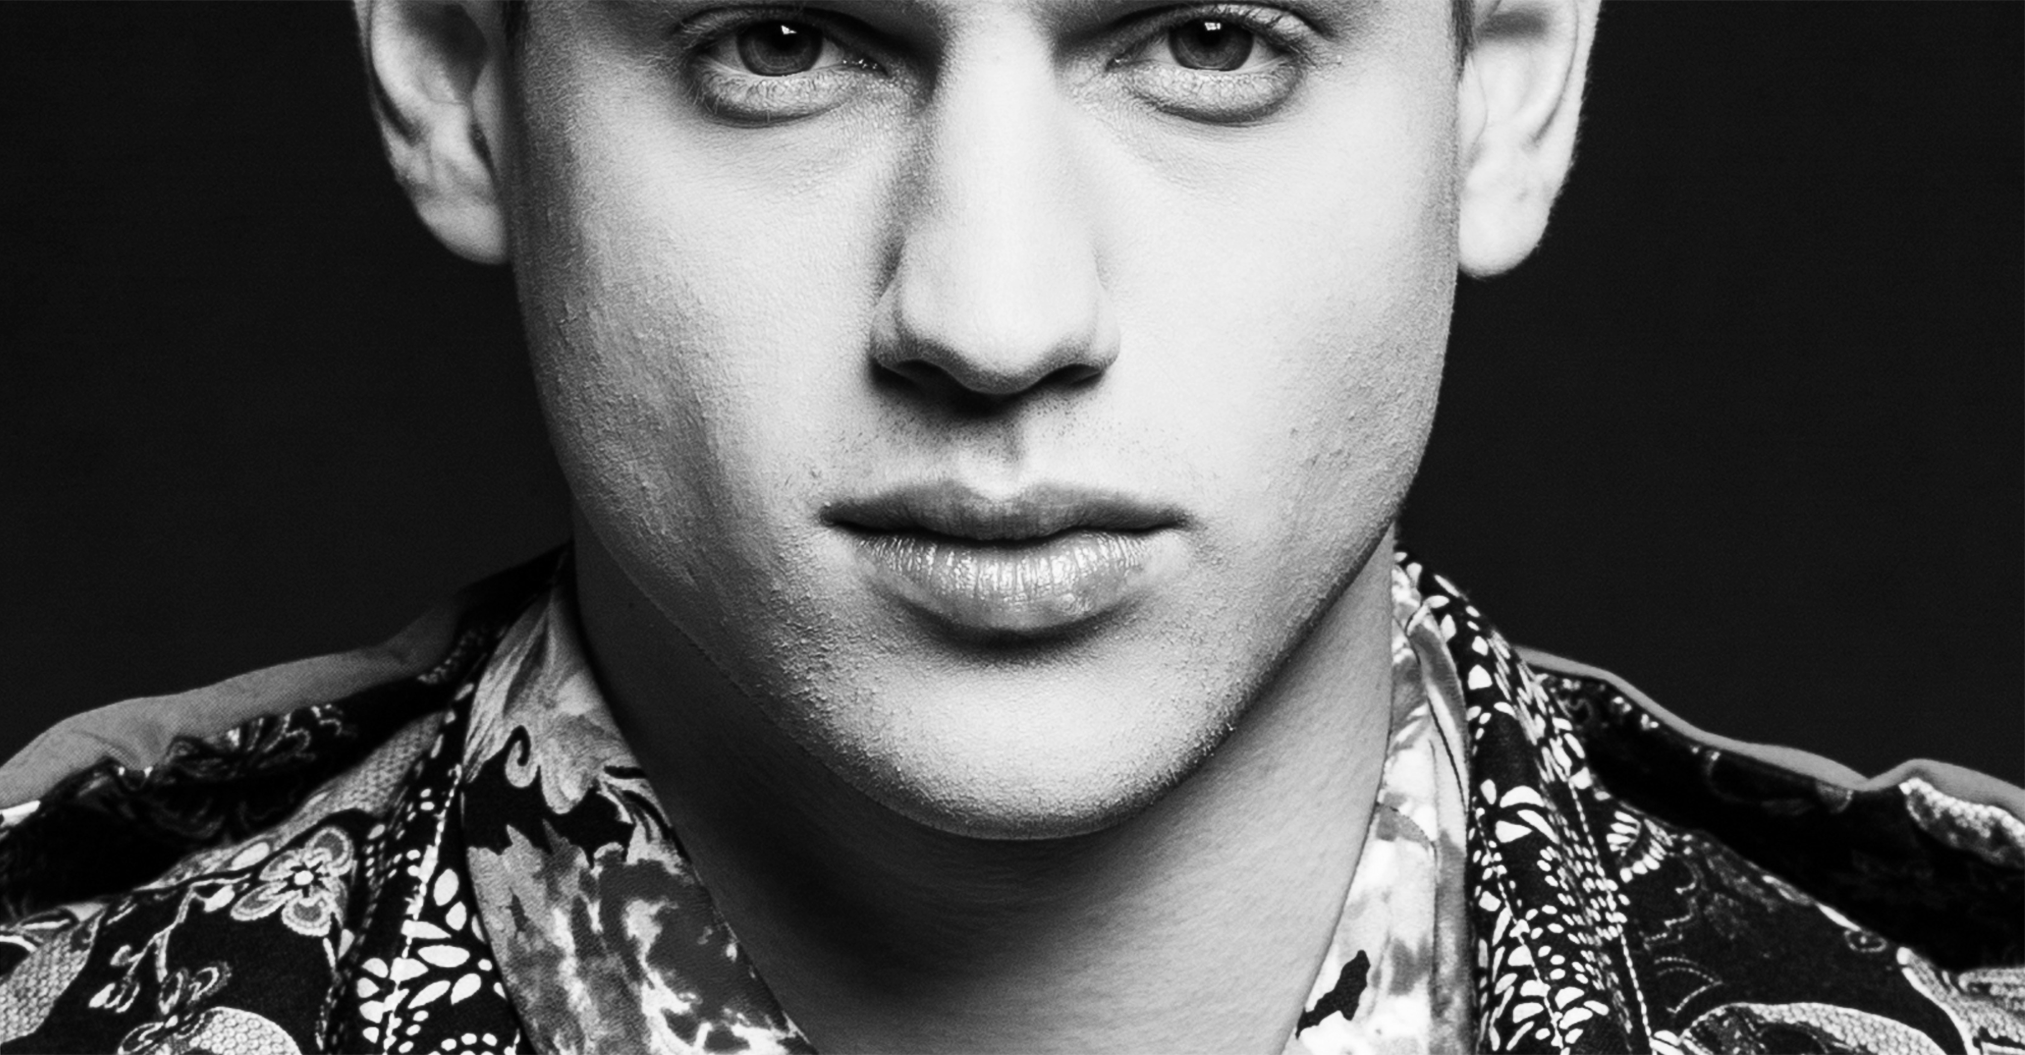
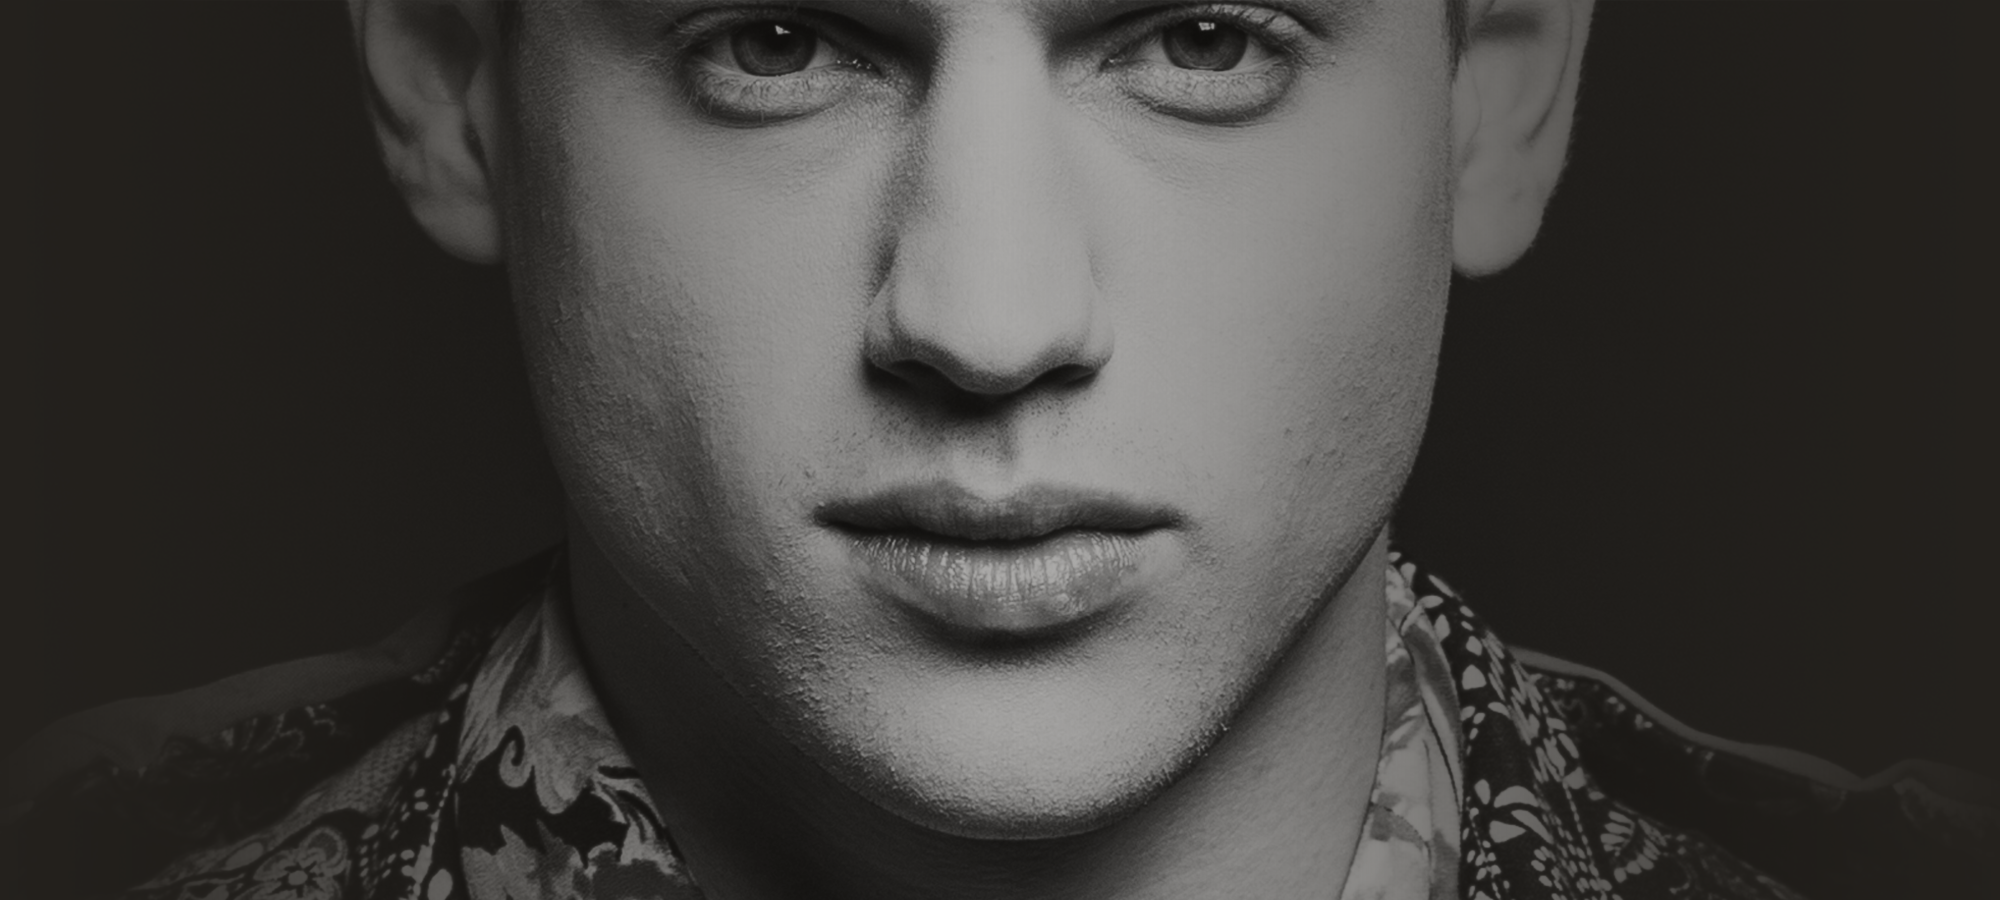
fix bg position and performance

diff --git a/home.html b/home.html
@@ -1,76 +1,76 @@
 <!DOCTYPE html>
 <!--[if lt IE 7]>
 <html class="no-js lt-ie9 lt-ie8 lt-ie7"> <![endif]-->
-  <!--[if IE 7]>
-  <html class="no-js lt-ie9 lt-ie8"> <![endif]-->
-    <!--[if IE 8]>
-    <html class="no-js lt-ie9"> <![endif]-->
-      <!--[if gt IE 8]><!-->
-      <html class="no-js"> <!--<![endif]-->
-        <head>
-          <meta charset="utf-8">
-          <meta http-equiv="X-UA-Compatible" content="IE=edge">
-          <title></title>
-          <meta name="description" content="">
-          <meta name="viewport" content="width=1024px">
+<!--[if IE 7]>
+<html class="no-js lt-ie9 lt-ie8"> <![endif]-->
+<!--[if IE 8]>
+<html class="no-js lt-ie9"> <![endif]-->
+<!--[if gt IE 8]><!-->
+<html class="no-js"> <!--<![endif]-->
+<head>
+  <meta charset="utf-8">
+  <meta http-equiv="X-UA-Compatible" content="IE=edge">
+  <title></title>
+  <meta name="description" content="">
+  <meta name="viewport" content="width=1024px">
 
-          <!-- Place favicon.ico and apple-touch-icon.png in the root directory -->
+  <!-- Place favicon.ico and apple-touch-icon.png in the root directory -->
 
-          <link rel="stylesheet" href="css/normalize.css">
-          <link rel="stylesheet" href="css/main.css">
-          <link rel="stylesheet" href="css/jmenu.css">
-          <link rel="stylesheet" href="css/home.css">
-          <script src="js/vendor/modernizr-2.6.2.min.js"></script>
-        </head>
-        <body>
-          <div class="mask">
+  <link rel="stylesheet" href="css/normalize.css">
+  <link rel="stylesheet" href="css/main.css">
+  <link rel="stylesheet" href="css/jmenu.css">
+  <link rel="stylesheet" href="css/home.css">
+  <script src="js/vendor/modernizr-2.6.2.min.js"></script>
+</head>
+<body>
+<div class="wrapper">
+  <div class="div-bg active" id="bg-1" style="width:100%;height:100%;background:url(img/home-bg.png) no-repeat center top;background-size:cover"></div>
+  <div class="div-bg" id="bg-2" style="width:100%;height:100%;background:url(img/home-bg-2.png) no-repeat center top;background-size:cover"></div>
+  <div class="div-bg" id="bg-3" style="width:100%;height:100%;background:url(img/home-bg-3.png) no-repeat center top;background-size:cover"></div>
+  <div class="home-title">
+    <img src="img/index-guchuang-light.png" alt="">
+  </div>
 
-            <!-- Add your site or application content here -->
-            <div class="home-title">
-              <img src="img/index-guchuang-light.png" alt="">
-            </div>
+  <div class="row nav">
+    <ul class="menu">
+      <li>
+        <a class="link" href="" data-bg="#bg-1">GUCHUANG古创</a>
+        <ul class="menu-content">
+          <li><a href="" data-bg="#bg-2">
+            <div>COMPANY PROFILE</div>
+            <div>公司简介</div>
+          </a></li>
+          <li><a href="" data-bg="#bg-3">
+            <div>COMPANY INFORMATION</div>
+            <div>公司资讯</div>
+          </a></li>
+          <li><a href="" data-bg="#bg-1">
+            <div>CHINA MERCHANTS TO JOIN</div>
+            <div>招商加盟</div>
+          </a></li>
+          <li><a href="" data-bg="#bg-2">
+            <div>RECRUITMENT</div>
+            <div>招聘</div>
+          </a></li>
+          <li><a href="" data-bg="#bg-3">
+            <div>CONTACT US</div>
+            <div>联系我们</div>
+          </a></li>
+        </ul>
+      </li>
+      <li><a class="link" href="">SUNJET新杰良品</a></li>
+      <li><a class="link" href="">X2HOMME</a></li>
+      <li><a class="link" href="">GFI古方印象</a></li>
+      <li><a class="link" href="">X3COMMUNE</a></li>
+    </ul>
+  </div>
+</div>
 
-            <div class="row nav">
-              <ul class="menu">
-                <li>
-                <a class="link" href="">GUCHUANG古创</a>
-                <ul class="menu-content">
-                  <li><a href="">
-                    <div>COMPANY PROFILE</div>
-                    <div>公司简介</div>
-                  </a></li>
-                  <li><a href="">
-                    <div>COMPANY INFORMATION</div>
-                    <div>公司资讯</div>
-                  </a></li>
-                  <li><a href="">
-                    <div>CHINA MERCHANTS TO JOIN</div>
-                    <div>招商加盟</div>
-                  </a></li>
-                  <li><a href="">
-                    <div>RECRUITMENT</div>
-                    <div>招聘</div>
-                  </a></li>
-                  <li><a href="">
-                    <div>CONTACT US</div>
-                    <div>联系我们</div>
-                  </a></li>
-                </ul>
-                </li>
-                <li><a class="link" href="">SUNJET新杰良品</a></li>
-                <li><a class="link" href="">X2HOMME</a></li>
-                <li><a class="link" href="">GFI古方印象</a></li>
-                <li><a class="link" href="">X3COMMUNE</a></li>
-              </ul>
-            </div>
-
-          </div>
-
-          <script src="js/vendor/jquery-1.10.2.min.js"></script>
-          <script src="js/vendor/jquery-ui.js"></script>
-          <script src="js/vendor/jMenu.jquery.js"></script>
-          <script src="js/vendor/TweenMax-1.11.4.min.js"></script>
-          <script src="js/plugins.js"></script>
-          <script src="js/main.js"></script>
-        </body>
-      </html>
+<script src="js/vendor/jquery-1.10.2.min.js"></script>
+<script src="js/vendor/jquery-ui.js"></script>
+<script src="js/vendor/jMenu.jquery.js"></script>
+<script src="js/vendor/TweenMax-1.11.4.min.js"></script>
+<script src="js/plugins.js"></script>
+<script src="js/main.js"></script>
+</body>
+</html>

diff --git a/css/home.css b/css/home.css
@@ -2,22 +2,37 @@ html {
   height: 100%; }
   html body {
     height: 100%;
-    background: url(../img/home-bg-min.png) no-repeat center;
-    background-size: cover; }
-    html body .home-title {
-      text-align: center;
-      padding-top: 170px; }
-      html body .home-title img {
-        width: 488px; }
-    html body .mask {
-      position: absolute;
-      left: 0;
-      top: 0;
+    overflow: hidden; }
+    html body .wrapper {
+      position: relative;
       width: 100%;
       height: 100%;
-      background: rgba(0, 0, 0, 0.4); }
+      overflow: hidden; }
+      html body .wrapper .div-bg {
+        z-index: 1; }
+      html body .wrapper .div-bg {
+        position: absolute;
+        left: 0;
+        top: 0;
+        height: 100%;
+        display: none; }
+        html body .wrapper .div-bg.active {
+          display: block; }
+    html body .home-title {
+      position: absolute;
+      z-index: 2;
+      text-align: center;
+      width: 100%;
+      top: 0;
+      padding-top: 200px; }
+      html body .home-title img {
+        width: 488px; }
 
 .nav {
+  position: absolute;
+  top: 320px;
+  z-index: 3;
+  margin-top: 1em;
   text-align: center; }
   .nav .menu {
     list-style: none;

diff --git a/scss/home.scss b/scss/home.scss
@@ -2,28 +2,49 @@ html {
   height: 100%;
   body {
     height: 100%;
-    background: url(../img/home-bg-min.png) no-repeat center;
-    background-size: cover;
+    overflow:hidden;
+
+    .wrapper{
+      position:relative;
+      width:100%;
+      height:100%;
+      overflow:hidden;
+      .div-bg{
+        z-index:1;
+      }
+
+      .div-bg{
+        position:absolute;
+        left:0;
+        top:0;
+        height:100%;
+        display:none;
+        &.active{
+          display:block;
+        }
+      }
+    }
+
     .home-title {
+      position:absolute;
+      z-index:2;
       text-align: center;
-      padding-top: 170px;
+      width:100%;
+      top:0;
+      padding-top: 200px;
       img {
         width: 488px;
       }
-    }
-    .mask{
-      position:absolute;
-      left:0;
-      top:0;
-      width:100%;
-      height:100%;
-      background:rgba(0,0,0,0.4);
     }
   }
 }
 
 // menu navigration
 .nav {
+  position:absolute;
+  top:320px;
+  z-index:3;
+  margin-top:1em;
   text-align: center;
   .menu {
     list-style: none;

diff --git a/js/main.js b/js/main.js
@@ -1,3 +1,13 @@
-(function(){
-  $('.menu').jMenu();
+(function() {
+	$('.menu').jMenu();
+	// Handle menu bg change
+	$('.menu a').hover(function(event) {
+		var $this = $(this);
+		var bgEl = $this.data('bg');
+		if (bgEl) {
+      $('.div-bg.active').removeClass('active');
+      $(bgEl).addClass('active');
+		}
+	});
 })();
+

diff --git a/css/main.css b/css/main.css
@@ -4,6 +4,7 @@ html {
   html body {
     height: 100%;
     min-width: 1024px;
+    min-height: 700px;
     background: #24211B; }
 
 .row {

diff --git a/scss/main.scss b/scss/main.scss
@@ -4,6 +4,7 @@ html{
   body{
     height:100%;
     min-width:1024px;
+    min-height:700px;
     background:#24211B;
   }
 }
